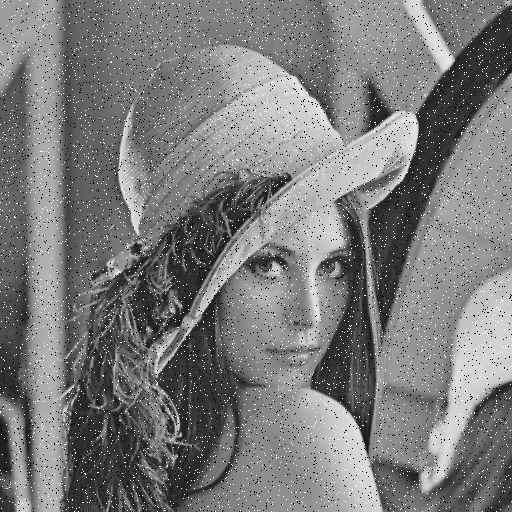
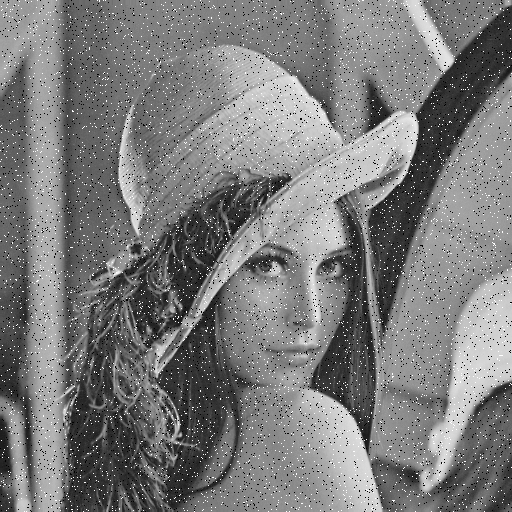
more work on assigment 3

diff --git a/src/homework.py b/src/homework.py
@@ -8,7 +8,7 @@ from PIL import Image
 logger = logging.getLogger(__name__)
 
 
-def pre_gamma_correct(image1: Image.Image) -> None:
+def part_1(image1: Image.Image) -> None:
     save_image(
         path=os.path.dirname(os.path.abspath(__file__)) + "/resources/images/generated/",
         name="lena_gamma.png",
@@ -16,7 +16,7 @@ def pre_gamma_correct(image1: Image.Image) -> None:
     )
 
 
-def histograms(image1: Image.Image) -> None:
+def part_2_and_3(image1: Image.Image) -> None:
     bin_values = [2, 128, 256]
 
     gamma_path = str(os.path.join(
@@ -50,10 +50,11 @@ def histograms(image1: Image.Image) -> None:
     )
 
 
-def noisy_images(image1: Image.Image) -> None:
+def part_4_and_5(image1: Image.Image) -> None:
     gaussian = gaussian_noise(image_to_array(image=image1))
     salt_and_pepper = salt_pepper_noise(image_to_array(image=image1))
 
+    # Noisy Images
     save_image(
         path=os.path.dirname(os.path.abspath(__file__)) + "/resources/images/generated/",
         name="lena_g.png",
@@ -66,6 +67,21 @@ def noisy_images(image1: Image.Image) -> None:
         image=array_to_image(salt_and_pepper)
     )
 
+    for lobe_sz in [0.25, 0.5, 1.0]:
+        # Linear Filter
+        save_image(
+            path=os.path.dirname(os.path.abspath(__file__)) + "/resources/images/generated/",
+            name="lena_g_smoothed.png",
+            image=array_to_image(gaussian_blur(gaussian, sigma=lobe_sz))
+        )
+
+        save_image(
+            path=os.path.dirname(os.path.abspath(__file__)) + "/resources/images/generated/",
+            name="lena_s_smoothed.png",
+            image=array_to_image(gaussian_blur(salt_and_pepper, sigma=lobe_sz))
+        )
+
+    # Median Filter
     save_image(
         path=os.path.dirname(os.path.abspath(__file__)) + "/resources/images/generated/",
         name="lena_s_median_1.png",
@@ -101,6 +117,6 @@ def run_homework_steps():
     lena_raw = load_raw_image(image1_path)
     lena_png = load_image(image2_path)
 
-    pre_gamma_correct(lena_png)
-    histograms(lena_png)
-    noisy_images(lena_raw)
+    part_1(lena_png)
+    part_2_and_3(lena_png)
+    part_4_and_5(lena_raw)

diff --git a/src/image.py b/src/image.py
@@ -1,7 +1,7 @@
 import logging
-import math
 
 from PIL import Image
+from scipy.ndimage import median_filter as scipy_median_filter
 import numpy as np
 import cv2
 
@@ -452,7 +452,7 @@ def salt_pepper_noise(image, amount=0.05, salt_vs_pepper=0.5):
 
 
 def median_filter(image: np.ndarray, size: int = 3, n_times: int = 0) -> np.ndarray:
-    filtered_image = cv2.medianBlur(src=image, ksize=size)
+    filtered_image = scipy_median_filter(image, size=size)
     if n_times > 0:
         for i in range(n_times):
             filtered_image = cv2.medianBlur(src=image, ksize=size)
